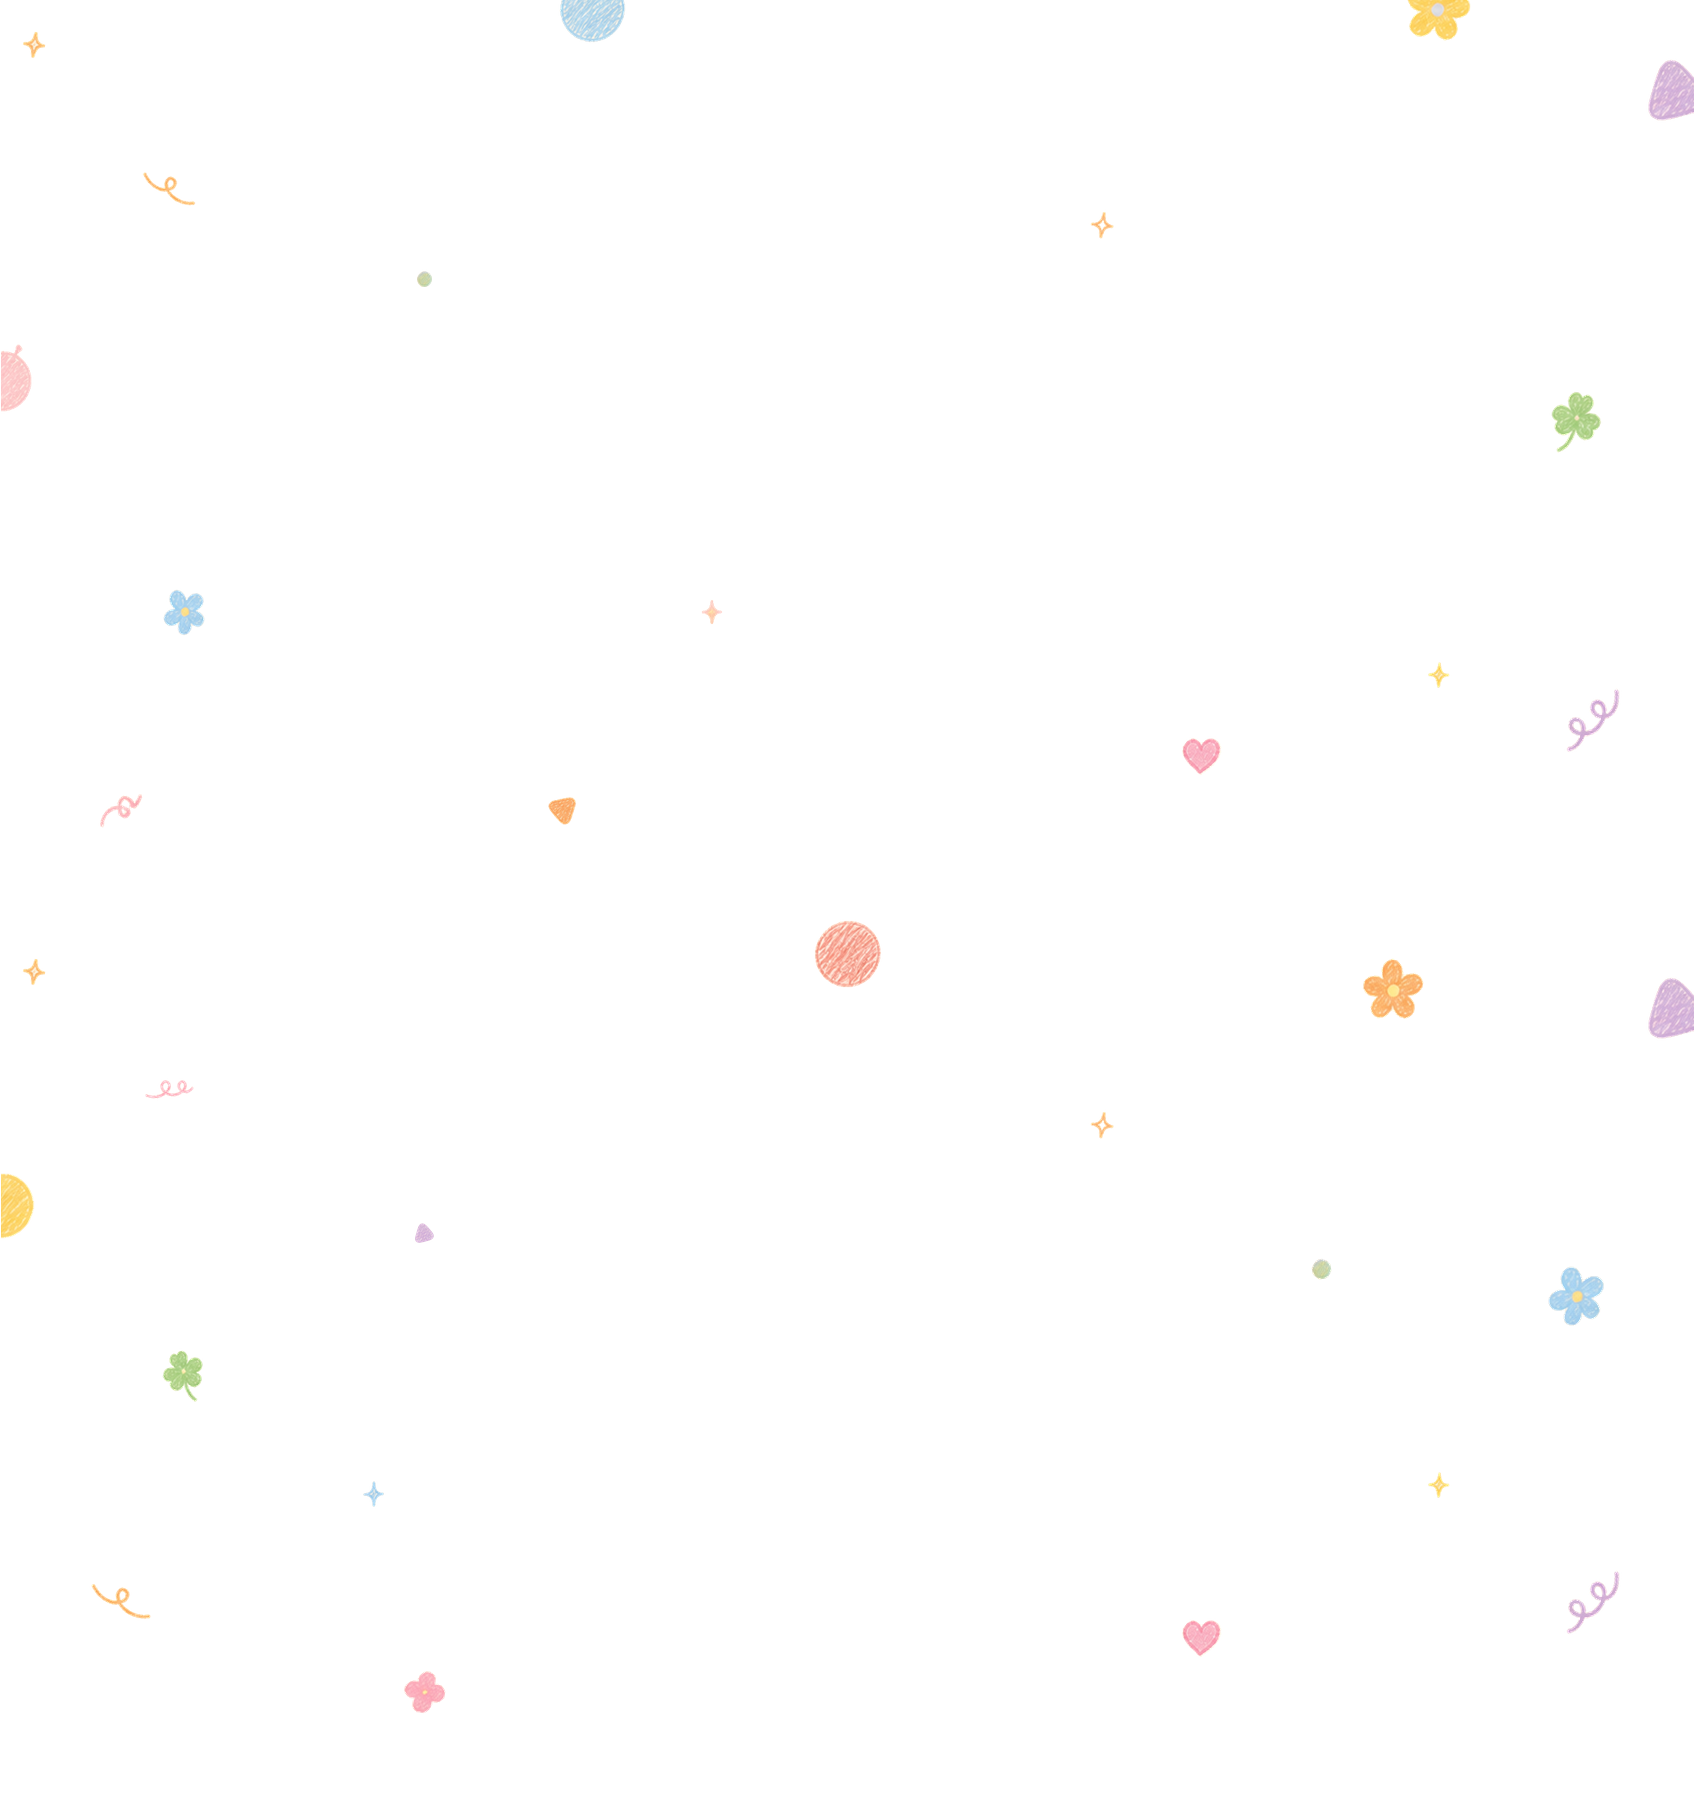
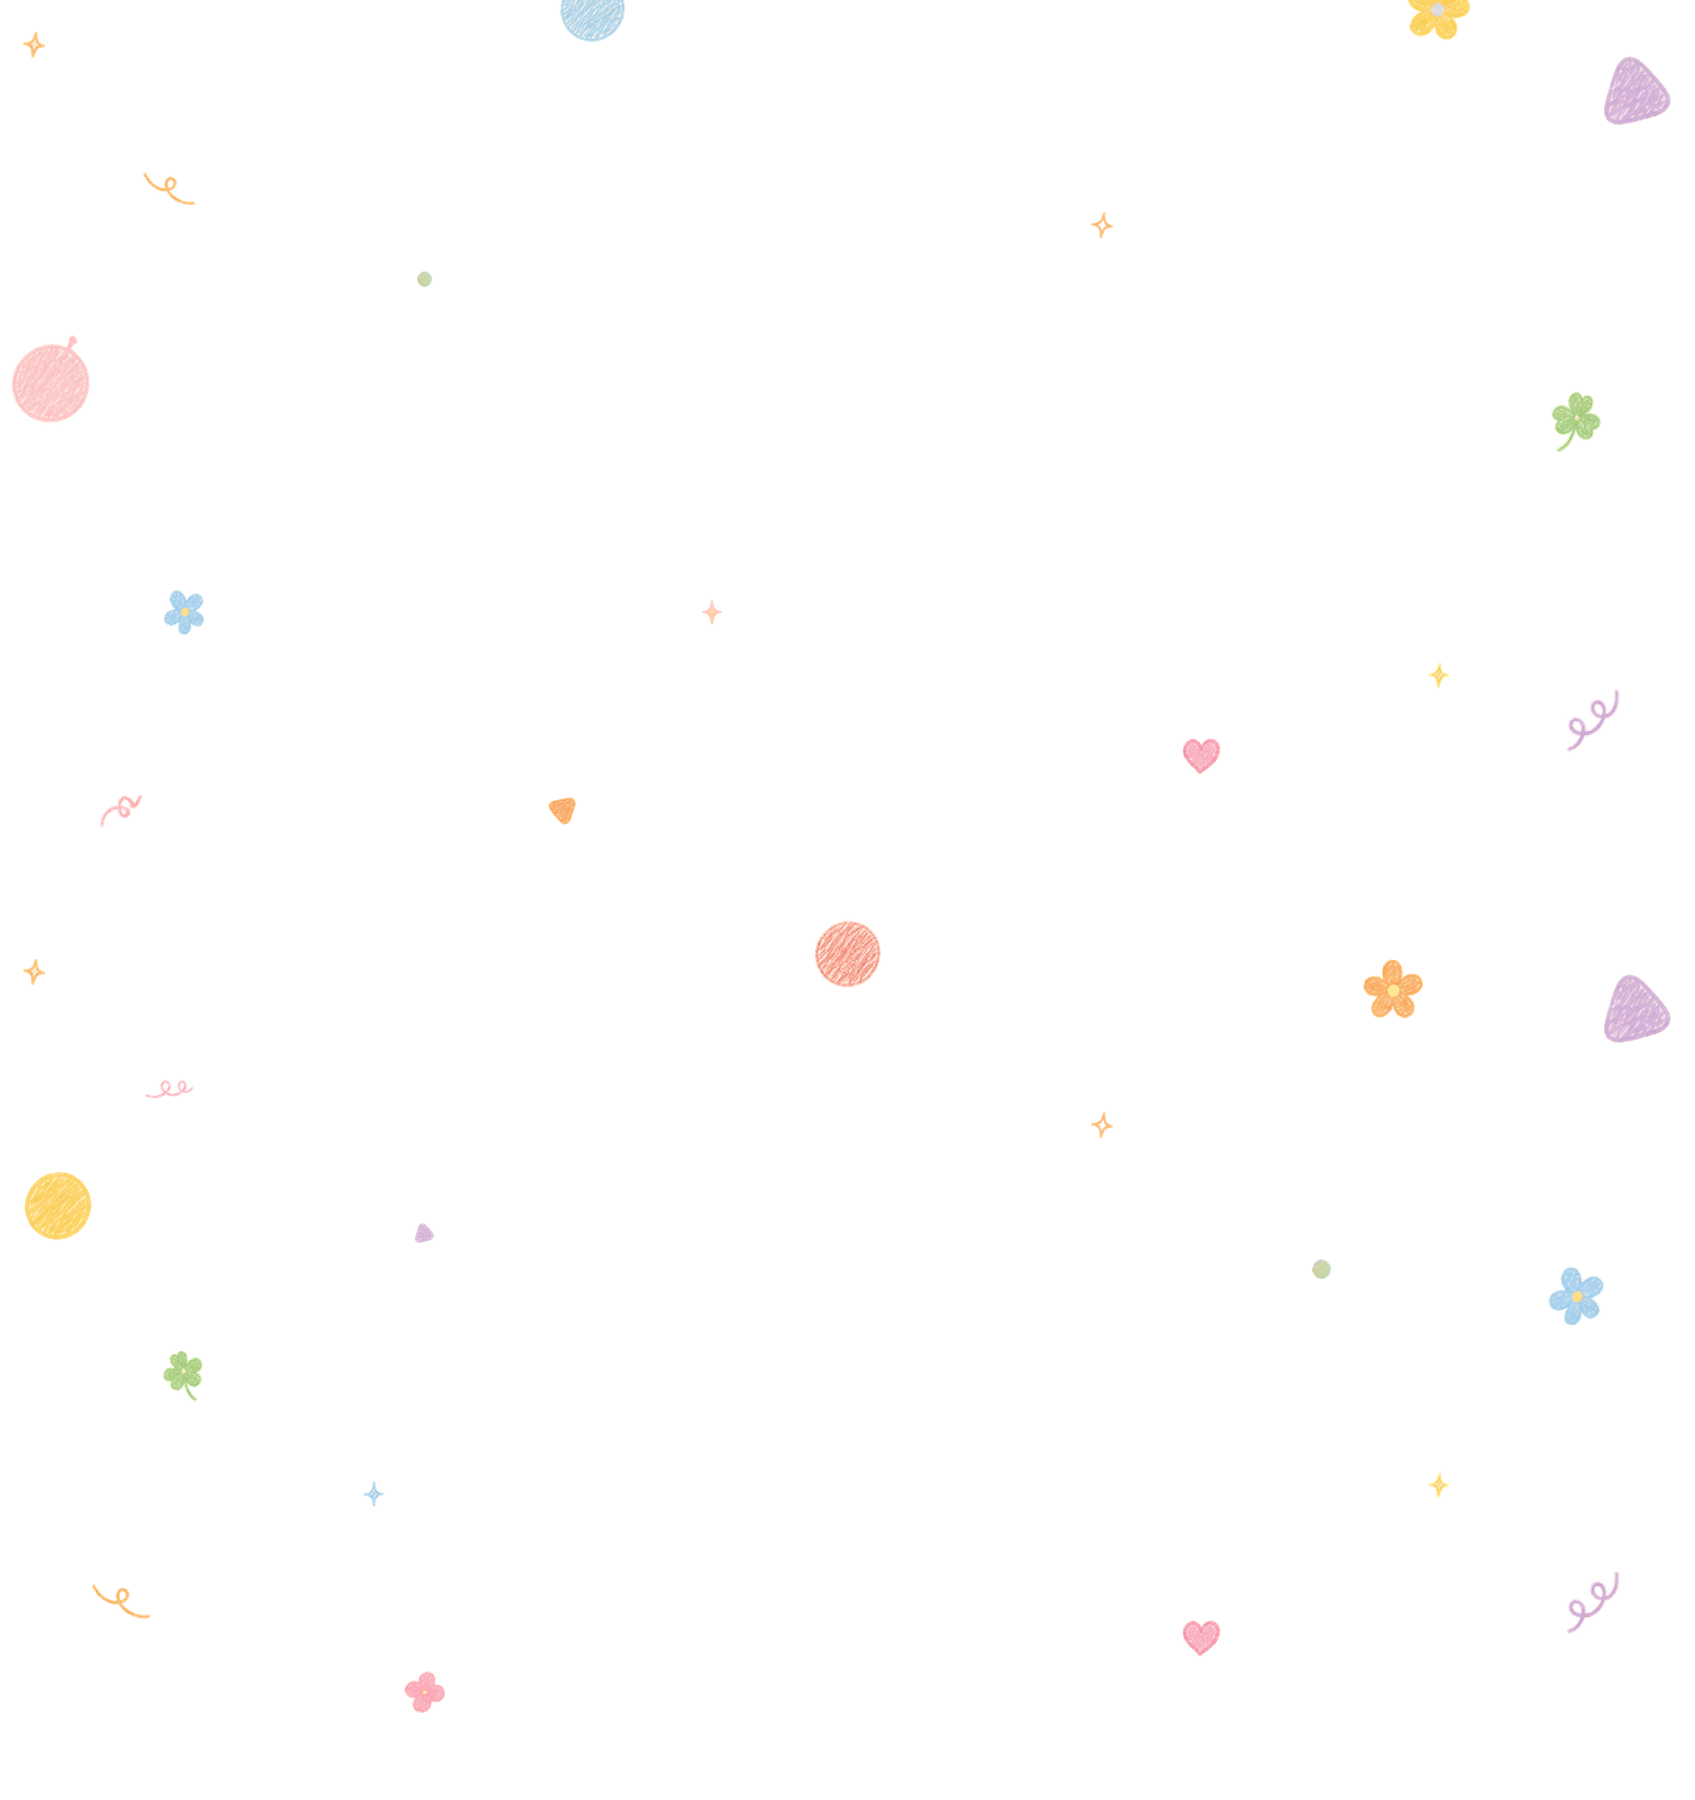
Style responsive background particles

diff --git a/common/static/common/css/base.css b/common/static/common/css/base.css
@@ -852,3 +852,15 @@ input {
         display: none;
     }
 }
+
+@media (min-width: 1700px) {
+    .page-particles::before {
+        background-image: url("../images/page-particles-final-desktop.png");
+        background-size: 2700px 1800px;
+    }
+
+    .page-particles::after {
+        background-image: url("../images/page-particles-repeat-desktop.png");
+        background-size: 2700px 900px;
+    }
+}
